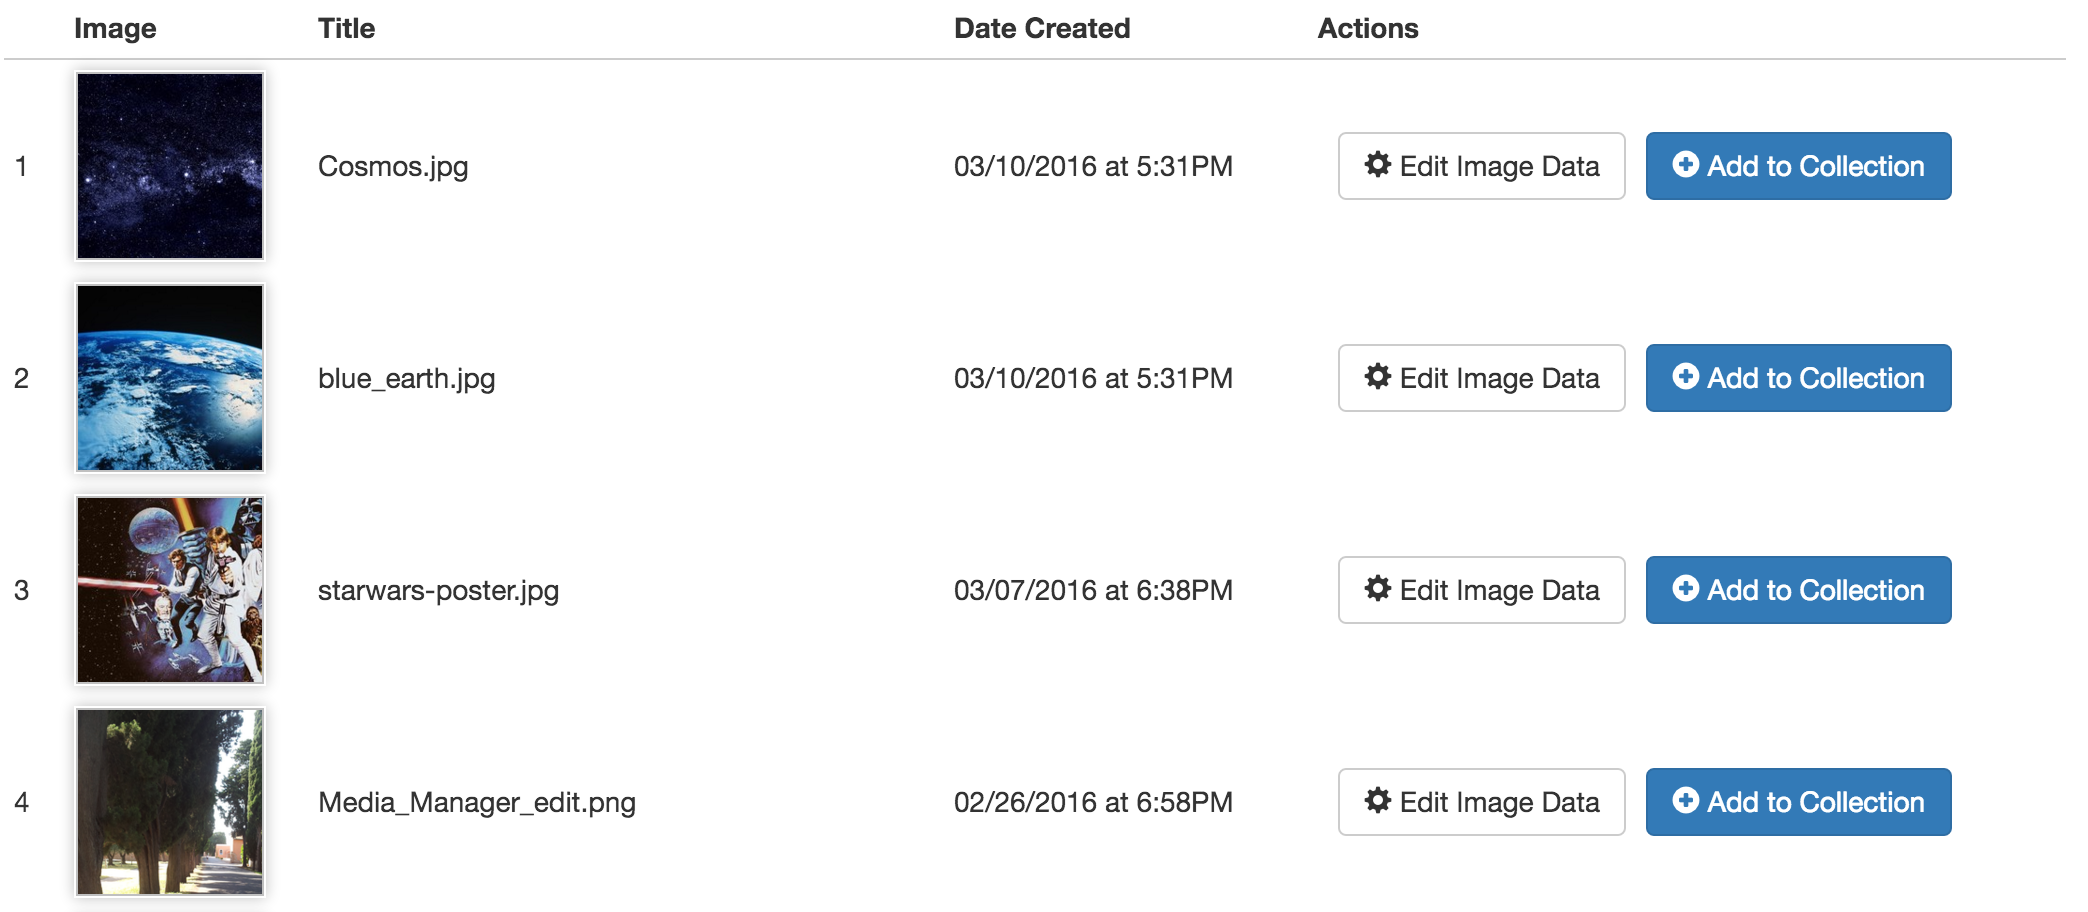
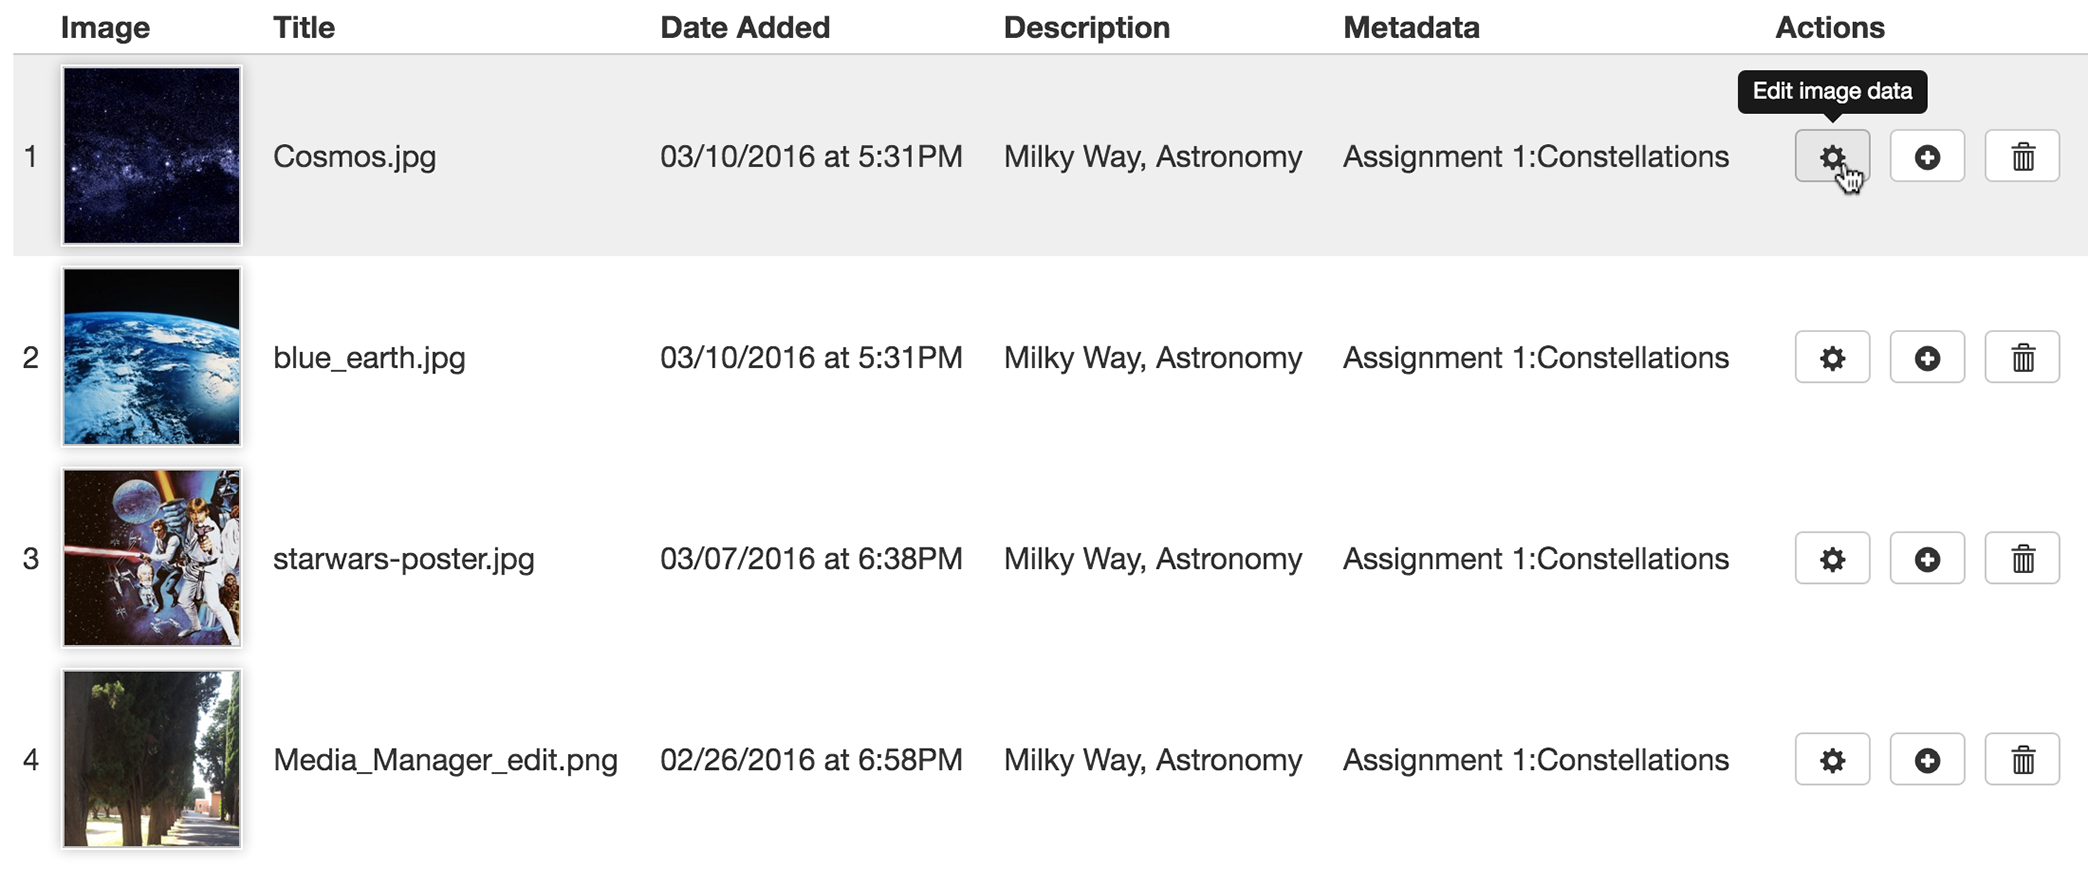
Media Manager Image Library list view, proposed screen capture and UI code

diff --git a/Media_Manager_images_list_table/index.html b/Media_Manager_images_list_table/index.html
@@ -4,7 +4,11 @@
                               <th></th>
                               <th>Image</th>
                               <th>Title</th>
-                              <th>Date Created</th>
+<!-- UI comment - Changed "Created" to "Added" -->
+                              <th>Date Added</th>
+<!-- UI comment - Adding all the image information -->
+                              <th>Description</th>
+                              <th>Metadata</th>
                               <th>Actions</th>
                           </tr>
                       </thead>
@@ -16,10 +20,14 @@
                               </td>
                               <td class="ng-binding">Cosmos.jpg</td>
                               <td class="ng-binding">03/10/2016 at 5:31PM</td>
-                              <td>
-                                  <button class="btn btn-default" ng-click="wc.imageView(courseImage.id)">View Image
-                                  </button><button class="btn btn-primary" ng-click="wc.addToCollection(courseImage)">Add to Collection
-                              </button></td>
+                              <td class="ng-binding">Milky Way, Astronomy</td>
+                              <td class="ng-binding">Assignment 1:Constellations</td>
+                              <td class="tooltip-demo">
+<!-- UI comment - Adding the same icons as in the grid view for consistency -->
+<!-- UI comment - Adding the fucntionality to delete an image form here -->
+                                  <button class="btn btn-default" ng-click="wc.imageView(courseImage.id)" data-toggle="tooltip" data-placement="top" title="Edit image data"><span class="glyphicon glyphicon-cog"></span></button><button class="btn btn-default" ng-click="wc.addToCollection(courseImage)" data-toggle="tooltip" data-placement="top" title="Add to collection"><span class="glyphicon glyphicon-plus-sign"></span></button><button class="btn btn-default" ng-click="ic.imageBehavior.deleteImageModal(ic.CourseCache.current_image.id)" data-toggle="tooltip" data-placement="top" title="Delete this image"><span class="glyphicon glyphicon-trash"></span>
+                                  </button>
+                              </td>
                           </tr><!-- end ngRepeat: courseImage in wc.courseImages track by $index --><tr ng-repeat="courseImage in wc.courseImages track by $index" class="ng-scope">
                               <td class="ng-binding">2</td>
                               <td>
@@ -27,10 +35,14 @@
                               </td>
                               <td class="ng-binding">blue_earth.jpg</td>
                               <td class="ng-binding">03/10/2016 at 5:31PM</td>
+                              <td class="ng-binding">Milky Way, Astronomy</td>
+                              <td class="ng-binding">Assignment 1:Constellations</td>
                               <td>
-                                  <button class="btn btn-default" ng-click="wc.imageView(courseImage.id)">View Image
-                                  </button><button class="btn btn-primary" ng-click="wc.addToCollection(courseImage)">Add to Collection
-                              </button></td>
+<!-- UI comment - Adding the same icons as in the grid view for consistency -->
+<!-- UI comment - Adding the fucntionality to delete an image form here -->
+                                  <button class="btn btn-default" ng-click="wc.imageView(courseImage.id)" data-toggle="tooltip" data-placement="top" title="Edit image data"><span class="glyphicon glyphicon-cog"></span></button><button class="btn btn-default" ng-click="wc.addToCollection(courseImage)" data-toggle="tooltip" data-placement="top" title="Add to collection"><span class="glyphicon glyphicon-plus-sign"></span></button><button class="btn btn-default" ng-click="ic.imageBehavior.deleteImageModal(ic.CourseCache.current_image.id)" data-toggle="tooltip" data-placement="top" title="Delete this image"><span class="glyphicon glyphicon-trash"></span>
+                                  </button>
+                              </td>
                           </tr><!-- end ngRepeat: courseImage in wc.courseImages track by $index --><tr ng-repeat="courseImage in wc.courseImages track by $index" class="ng-scope">
                               <td class="ng-binding">3</td>
                               <td>
@@ -38,10 +50,14 @@
                               </td>
                               <td class="ng-binding">starwars-poster.jpg</td>
                               <td class="ng-binding">03/07/2016 at 6:38PM</td>
+                              <td class="ng-binding">Milky Way, Astronomy</td>
+                              <td class="ng-binding">Assignment 1:Constellations</td>
                               <td>
-                                  <button class="btn btn-default" ng-click="wc.imageView(courseImage.id)">View Image
-                                  </button><button class="btn btn-primary" ng-click="wc.addToCollection(courseImage)">Add to Collection
-                              </button></td>
+<!-- UI comment - Adding the same icons as in the grid view for consistency -->
+<!-- UI comment - Adding the fucntionality to delete an image form here -->
+                                  <button class="btn btn-default" ng-click="wc.imageView(courseImage.id)" data-toggle="tooltip" data-placement="top" title="Edit image data"><span class="glyphicon glyphicon-cog"></span></button><button class="btn btn-default" ng-click="wc.addToCollection(courseImage)" data-toggle="tooltip" data-placement="top" title="Add to collection"><span class="glyphicon glyphicon-plus-sign"></span></button><button class="btn btn-default" ng-click="ic.imageBehavior.deleteImageModal(ic.CourseCache.current_image.id)" data-toggle="tooltip" data-placement="top" title="Delete this image"><span class="glyphicon glyphicon-trash"></span>
+                                  </button>
+                              </td>
                           </tr><!-- end ngRepeat: courseImage in wc.courseImages track by $index --><tr ng-repeat="courseImage in wc.courseImages track by $index" class="ng-scope">
                               <td class="ng-binding">4</td>
                               <td>
@@ -49,9 +65,12 @@
                               </td>
                               <td class="ng-binding">Media_Manager_edit.png</td>
                               <td class="ng-binding">02/26/2016 at 6:58PM</td>
+                              <td class="ng-binding">Milky Way, Astronomy</td>
+                              <td class="ng-binding">Assignment 1:Constellations</td>
                               <td>
-                                  <button class="btn btn-default" ng-click="wc.imageView(courseImage.id)">View Image
-                                  </button><button class="btn btn-primary" ng-click="wc.addToCollection(courseImage)">Add to Collection
-                              </button></td>
+<!-- UI comment - Adding the same icons as in the grid view for consistency -->
+<!-- UI comment - Adding the fucntionality to delte an image form here -->
+                                  <button class="btn btn-default" ng-click="wc.imageView(courseImage.id)" data-toggle="tooltip" data-placement="top" title="Edit image data"><span class="glyphicon glyphicon-cog"></span></button><button class="btn btn-default" ng-click="wc.addToCollection(courseImage)" data-toggle="tooltip" data-placement="top" title="Add to collection"><span class="glyphicon glyphicon-plus-sign"></span></button><button class="btn btn-default" ng-click="ic.imageBehavior.deleteImageModal(ic.CourseCache.current_image.id)" data-toggle="tooltip" data-placement="top" title="Delete this image"><span class="glyphicon glyphicon-trash"></span>
+                                  </button>
+                              </td>
                           </tr><!-- end ngRepeat: courseImage in wc.courseImages track by $index -->
-                          
